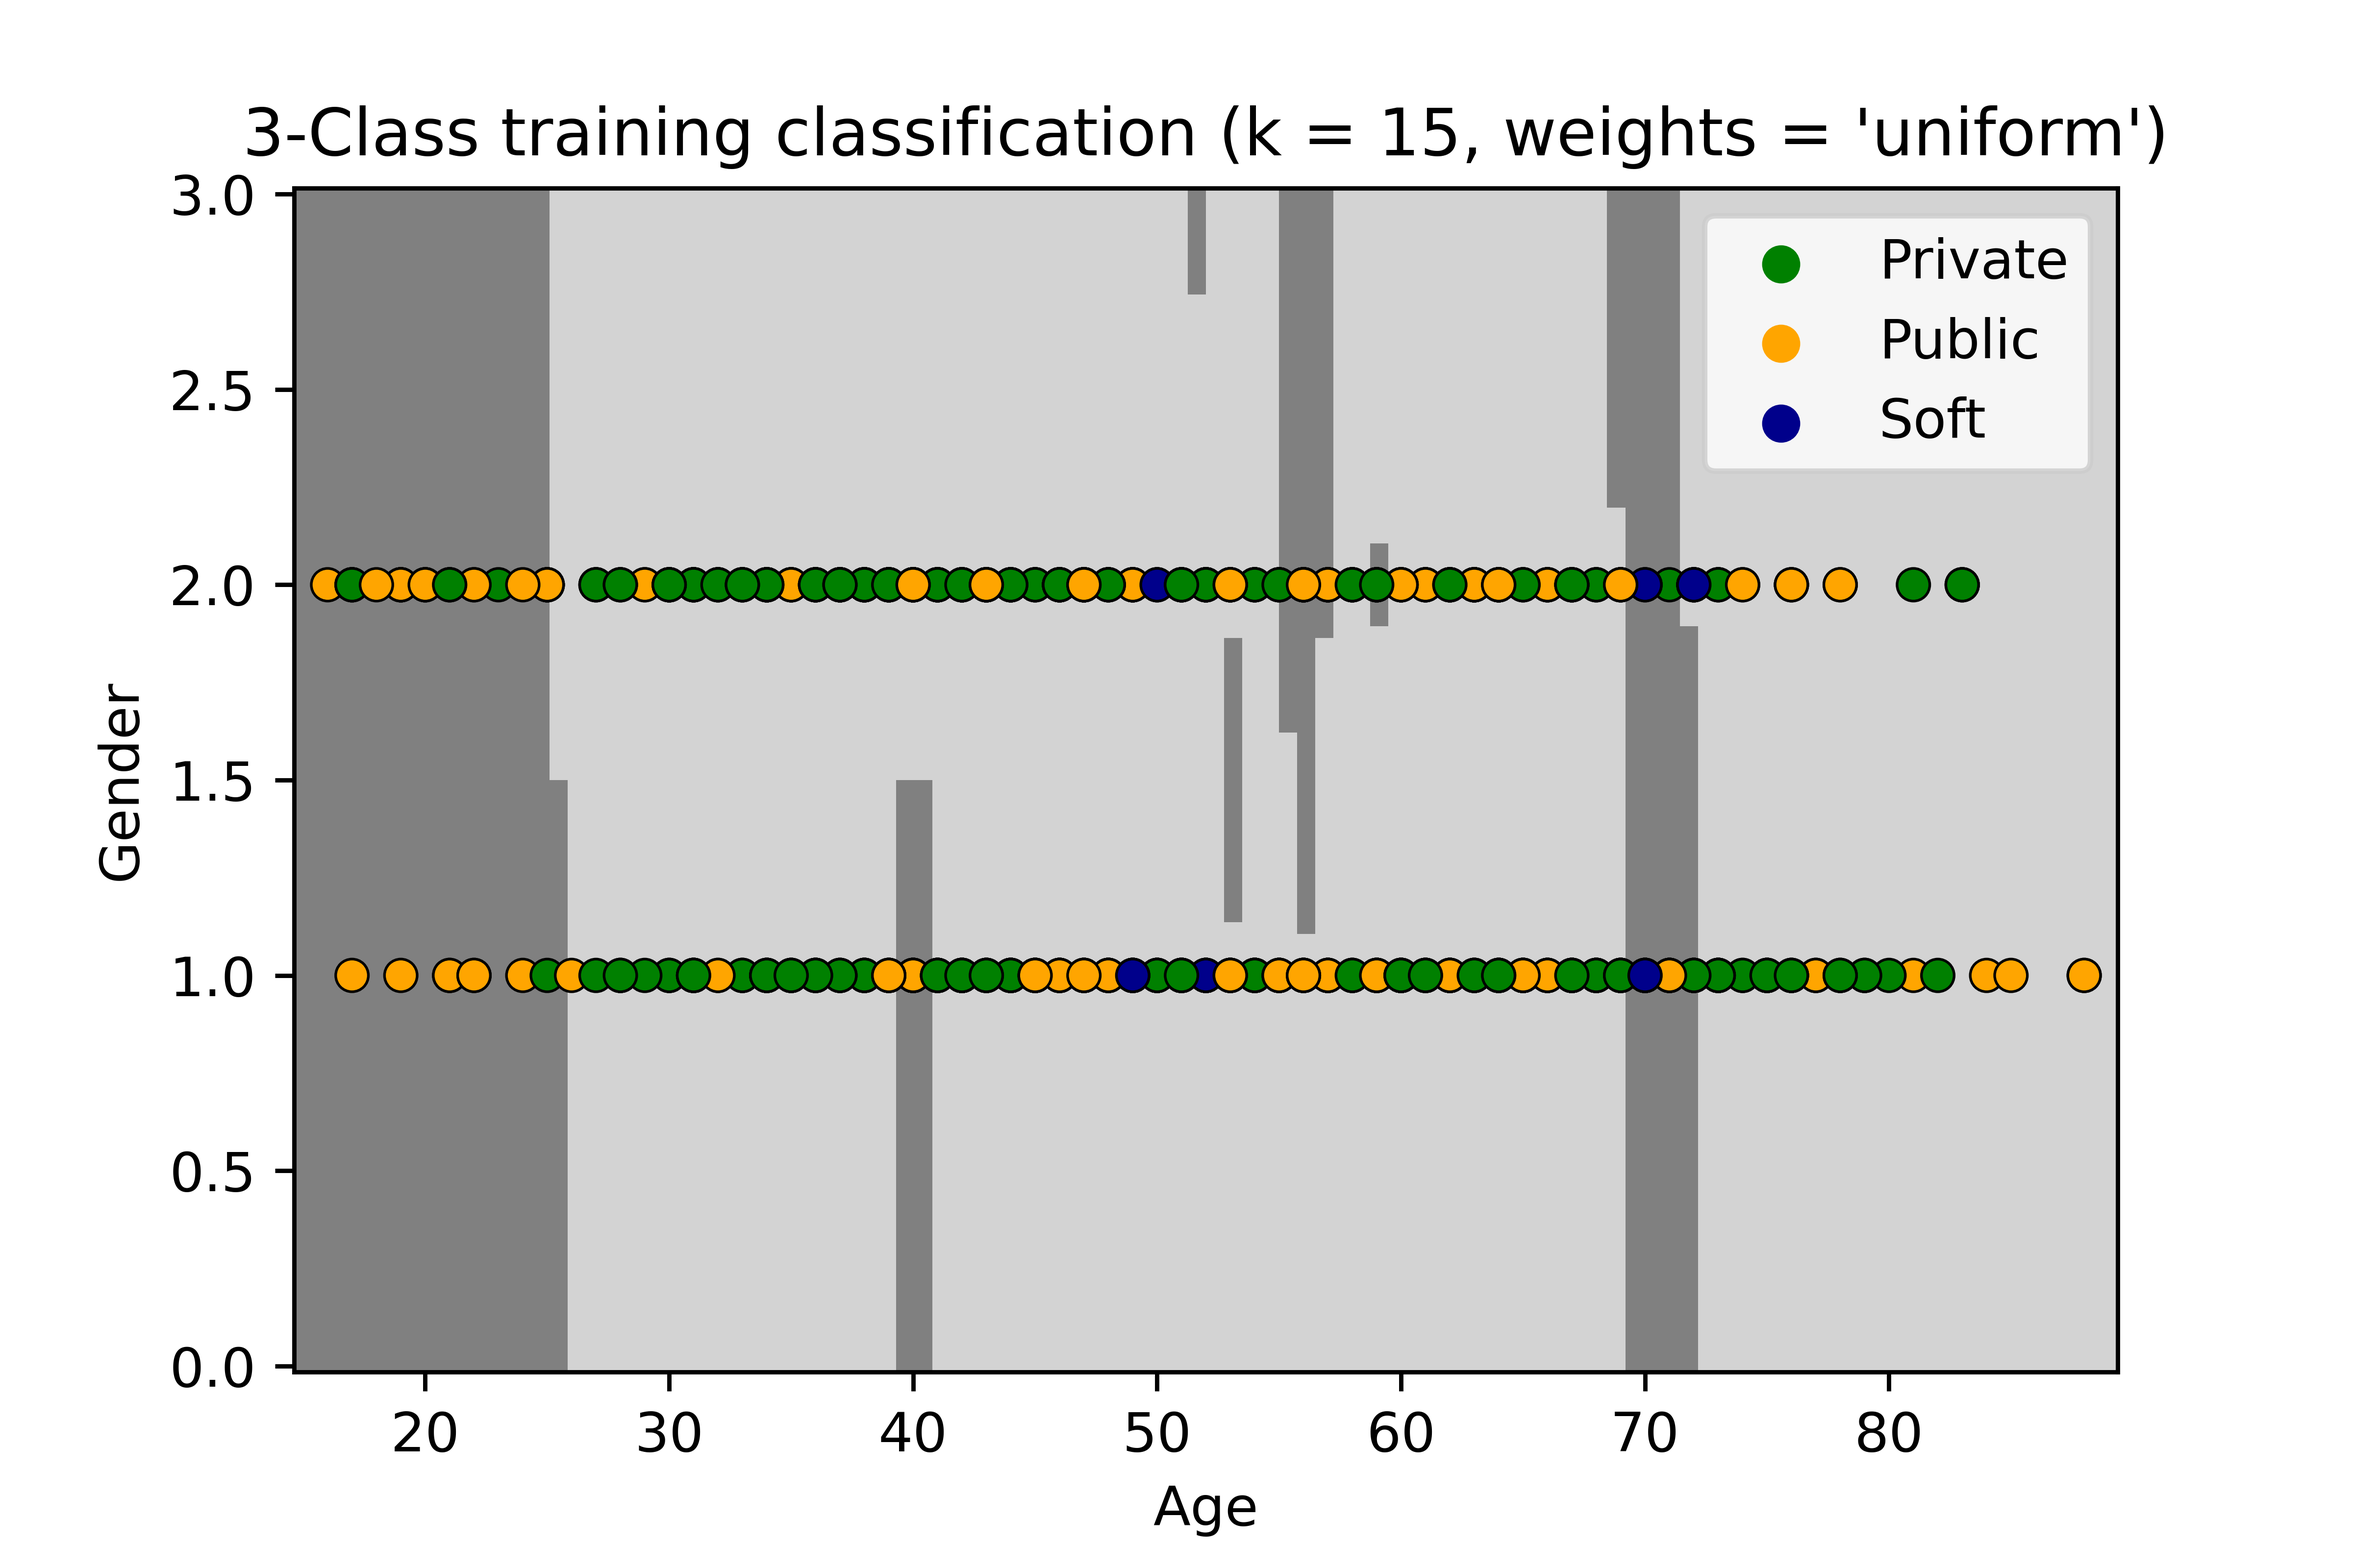
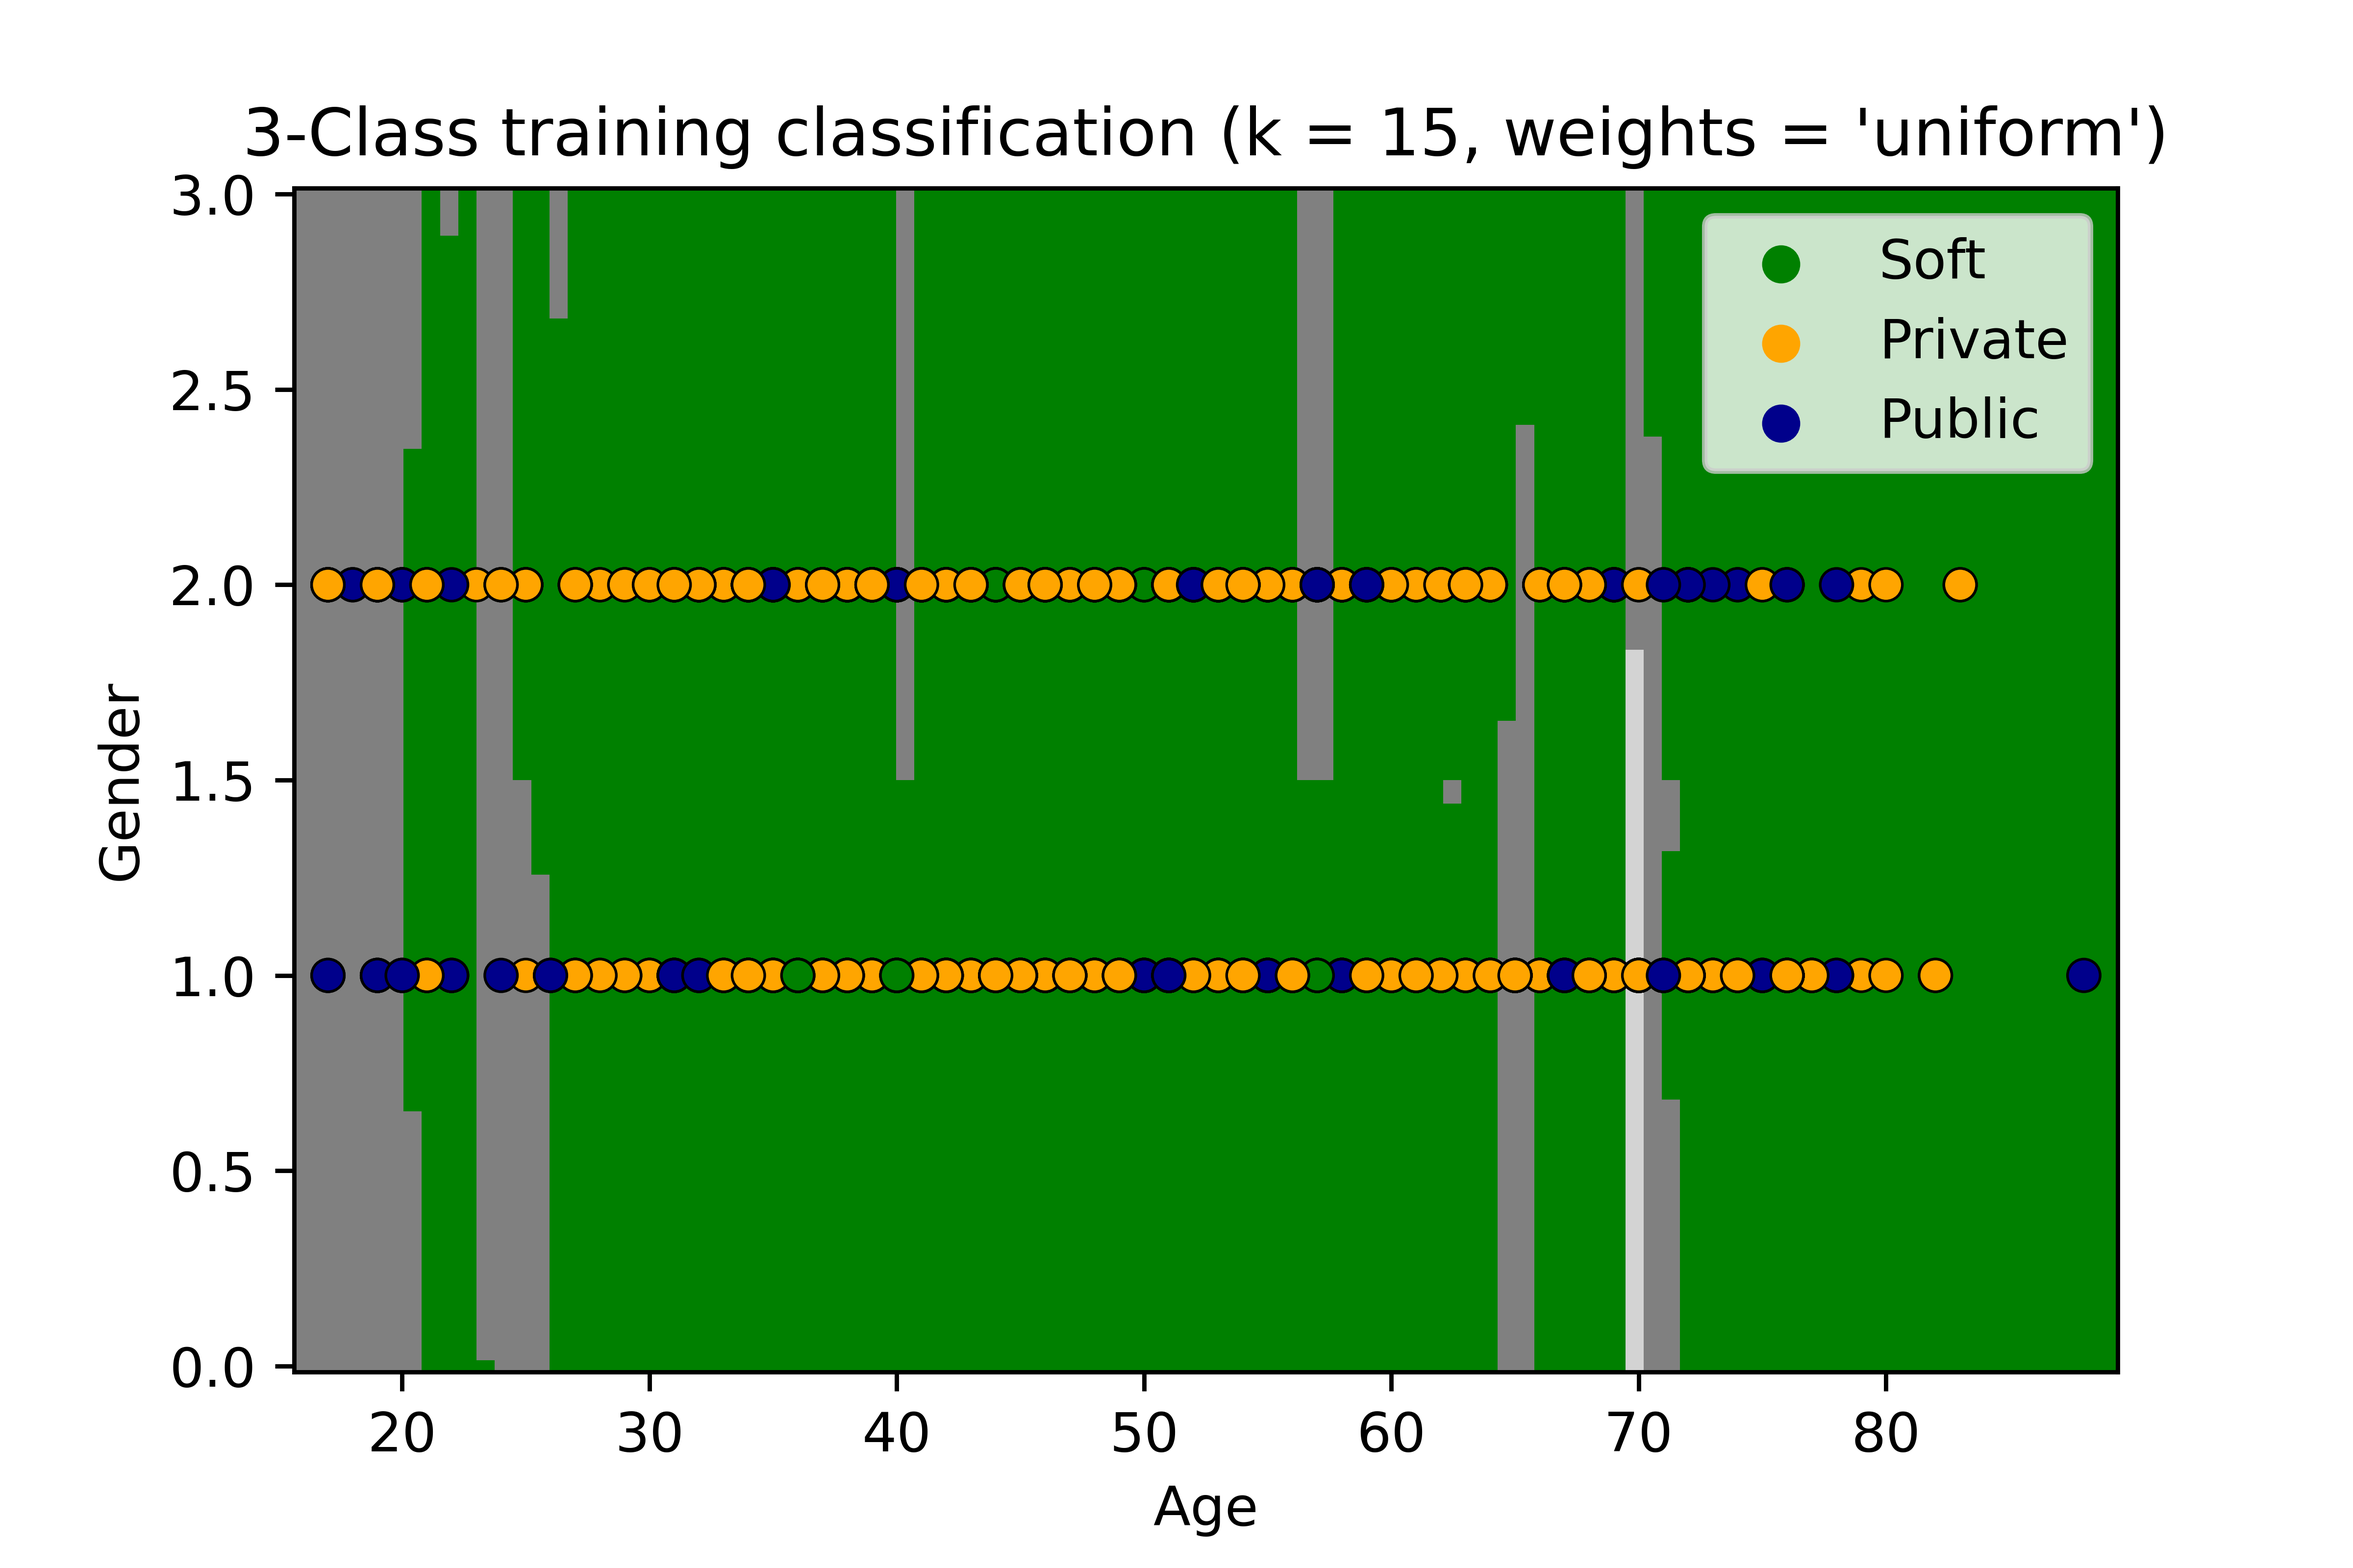
finalizing wealth calculation

diff --git a/Data_Prep.py b/Data_Prep.py
@@ -168,7 +168,7 @@ for idx, values in result_dict.items():
 MOT_dict = result_dict
 MOT_df = pd.DataFrame.from_dict(MOT_dict, orient='index')
 
-df_age_gender = import_data.df[['ID','NbChild', 'CalculatedIncome','NbTV','NbCellPhones','SocioProfCat']]
+df_age_gender = import_data.df[['ID','NbChild', 'CalculatedIncome','NbTV','NbCellPhones','SocioProfCat','NbCar','NbMoto','NbRoomsHouse']]
 
 df_2 = pd.merge(MOT_df, df_age_gender, left_index=True, right_on="ID")
 df_2.loc[df_2['PM'] == 0,'Label'] = 'Public'
@@ -181,10 +181,14 @@ df_2.drop(df_2[df_2['NbTV'] == -1].index, inplace = True)
 df_2.drop(df_2[df_2['NbCellPhones'] == -1].index, inplace = True)
 df_2.drop(df_2[df_2['PM'] < 0].index, inplace = True)
 
-costofchild=300
+costofchild=700
 costoftv=25
 costofCP=20
-df_2['HighincomeH']= df_2['CalculatedIncome']-(costofchild*df_2['NbChild']+costoftv*df_2['NbTV']+costofCP*df_2['NbCellPhones'])
+costofcar=800
+costofbike=100
+costofroom=486
+
+df_2['HighincomeH']= df_2['CalculatedIncome']-(costofcar*df_2['NbCar']+costofbike*df_2['NbMoto']+costofroom*df_2['NbRoomsHouse']+costofchild*df_2['NbChild']+costoftv*df_2['NbTV']+costofCP*df_2['NbCellPhones'])
 
 for index, value in df_2['HighincomeH'].iteritems():
     if value <=1000:

diff --git a/Subquestion_1.py b/Subquestion_1.py
@@ -296,10 +296,10 @@ n_neighbors = 15
 # # we only take the first two features. We could avoid this ugly
 # # slicing by using a two-dim dataset
 
-X_train = df_train[['Income','TC']].to_numpy()
+X_train = df_train[['HighincomeH','TC']].to_numpy()
 Y_train = df_train['PM'].to_numpy()
 
-X_test = df_test[['Income','TC']].to_numpy()
+X_test = df_test[['HighincomeH','TC']].to_numpy()
 Y_test = df_test['PM'].to_numpy()
 
 # # Create color maps
